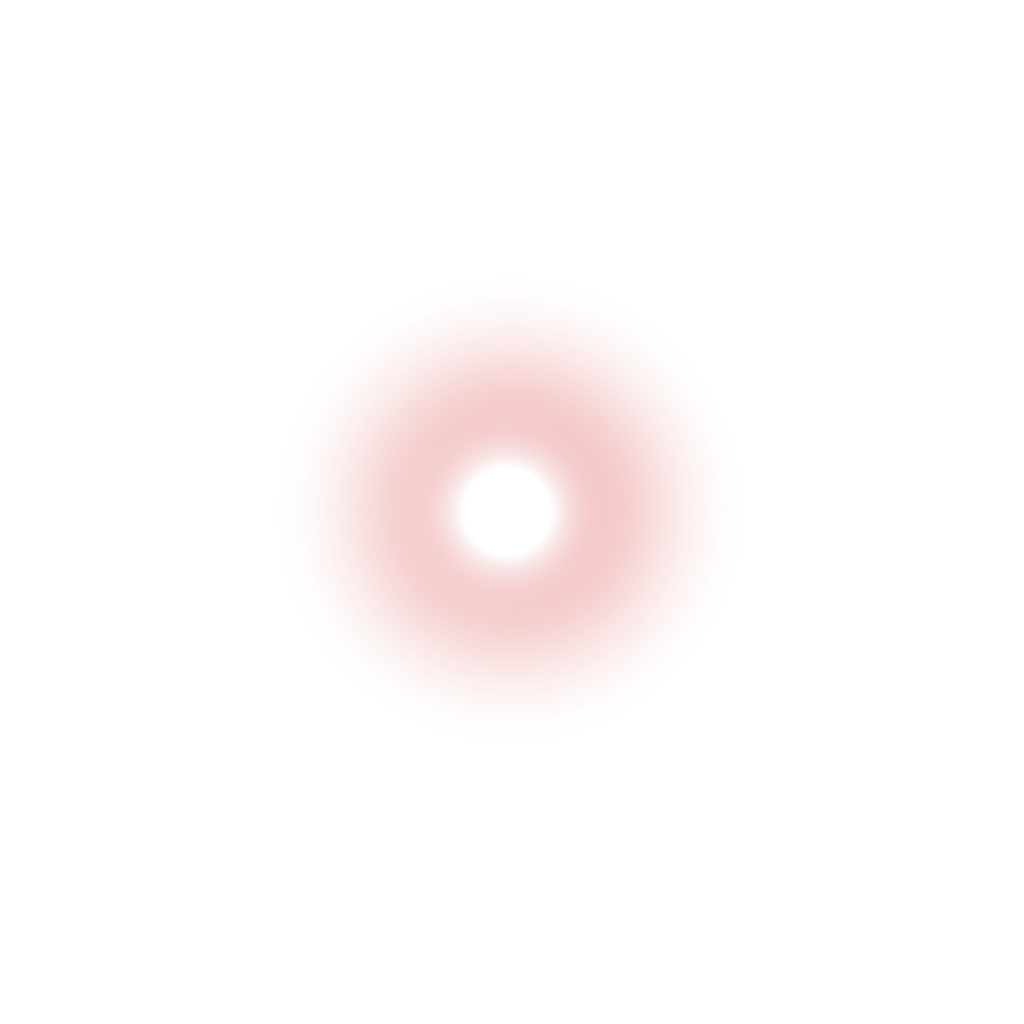
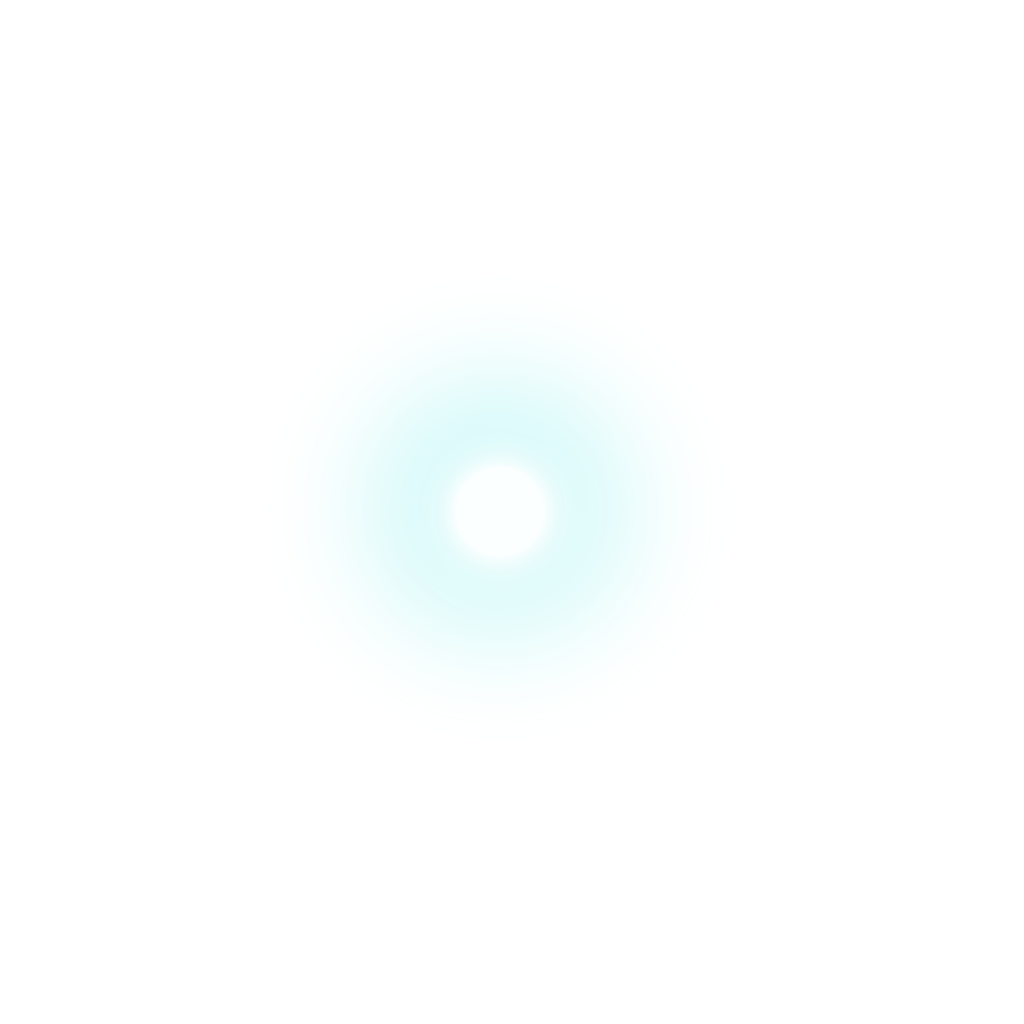
ビルボード成功。 Model.PSにアルファ0.5以下でクランプする処理を追加

Changed region(s): [[0.3438, 0.3438, 0.6562, 0.6562]]

diff --git a/RailSTG/Particle/ParticleManager.cpp b/RailSTG/Particle/ParticleManager.cpp
@@ -1,18 +1,41 @@
 #include "ParticleManager.h"
 #include "../Time/TimeManager.h"
+#include "../../Original/Base/DirectXCommon.h"
 
 #include <imgui.h>
+#include <algorithm>
 
 using namespace RyoEngine;
+
+namespace {
+    // D3D12の定数バッファ(CBV)は256バイトアラインメントが必須
+    constexpr uint32_t Align256(uint32_t size) {
+        return (size + 255) & ~255u;
+    }
+}
 
 void ParticleManager::Initialize() {
     if (!model_) {
         model_ = Model::Create("resources/RailSTG/Particle/particle.obj");
         model_->SetTex("resources/RailSTG/Particle/particle.png");
+        model_->SetEnableLighting(false);
+    }
+
+    if (!instanceWVPResource_) {
+        alignedWVPStride_ = Align256(static_cast<uint32_t>(sizeof(TransformationMatrix)));
+
+        auto device = DirectXCommon::GetInstance()->GetDevice();
+        instanceWVPResource_ = DirectXCommon::CreateBufferResource(device, alignedWVPStride_ * kMaxParticles);
+        instanceWVPResource_->Map(0, nullptr, reinterpret_cast<void**>(&instanceWVPMapped_));
     }
 }
 
 void ParticleManager::Finalize() {
+    if (instanceWVPResource_) {
+        instanceWVPResource_->Unmap(0, nullptr);
+        instanceWVPMapped_ = nullptr;
+        instanceWVPResource_.Reset();
+    }
     model_.reset();
 }
 
@@ -30,6 +53,8 @@ void ParticleManager::Emit(const Vector3& position, const Vector3& velocity,
 }
 
 void ParticleManager::Update(const RyoEngine::Camera& camera) {
+     
+
     for (auto& p : particles_) {
         p.currentLife += TimeManager::GetDeltaTime();
 
@@ -37,6 +62,11 @@ void ParticleManager::Update(const RyoEngine::Camera& camera) {
             p.velocity.y -= p.gravity * TimeManager::GetDeltaTime();
         }
         p.position += p.velocity * TimeManager::GetDeltaTime();
+
+        float lifeRate = p.currentLife / p.lifeTime;
+        lifeRate = Clamp(lifeRate, 0.0f, 1.0f);
+
+        p.color.w = (1.0f - lifeRate);
     }
 
     particles_.erase(
@@ -45,25 +75,51 @@ void ParticleManager::Update(const RyoEngine::Camera& camera) {
         particles_.end()
     );
 
-    camera_ = camera;
+    // 専用バッファのサイズ(kMaxParticles)を超える分は今回は描画しない
+    if (particles_.size() > kMaxParticles) {
+        particles_.resize(kMaxParticles);
+    }
+
+    Matrix4x4 cameraRot = camera.GetViewMatrix();
+    // 平行移動成分をクリアして回転だけにする
+    cameraRot.m[3][0] = 0.0f;
+    cameraRot.m[3][1] = 0.0f;
+    cameraRot.m[3][2] = 0.0f;
+    Matrix4x4 billboardRot = Transpose(cameraRot); // ビュー行列の回転の転置（逆回転）
+
+    for (size_t i = 0; i < particles_.size(); ++i) {
+        const Particle& p = particles_[i];
+
+        // 1. スケール行列
+        Matrix4x4 scaleMat = MakeScaleMatrix({ p.scale, p.scale, p.scale });
+        // 2. ビルボード回転（カメラを常に向く）
+        // 3. 平行移動行列
+        Matrix4x4 transMat = MakeTranslateMatrix(p.position);
+
+        // ワールド行列 ＝ スケール × カメラ向いた回転 × 位置
+        Matrix4x4 world = scaleMat * billboardRot * transMat;
+        Matrix4x4 wvp = world * camera.GetViewProjectionMatrix();
+
+        auto* dst = reinterpret_cast<TransformationMatrix*>(instanceWVPMapped_ + i * alignedWVPStride_);
+        dst->World = world;
+        dst->WVP = wvp;
+    }
 }
 
 void ParticleManager::Draw() {
-    if (!model_) return;
+    if (!model_ || !instanceWVPResource_) return;
 
     ImGui::Begin("particle");
+    ImGui::Text("count: %d", static_cast<int>(particles_.size()));
 
-    for (const auto& p : particles_) {
-        // 1. パーティクルごとの行列をモデルに適用
-        model_->SetTranslate(p.position);
-        model_->SetScale({ p.scale, p.scale, p.scale });
+    for (size_t i = 0; i < particles_.size(); ++i) {
+        // i番目のパーティクル専用のCBアドレス(他のパーティクルとは独立したメモリ)を渡して描画する。
+        // model_->Draw()(内部でwvpResource_を1個だけ使う版)は使わない。
+        D3D12_GPU_VIRTUAL_ADDRESS wvpGVA =
+            instanceWVPResource_->GetGPUVirtualAddress() + i * alignedWVPStride_;
+        model_->DrawInstance(wvpGVA);
 
-        // 2. モデルの内部行列を更新 (WVPを再計算)
-        model_->Update(camera_);
-
-        // 3. 描画命令を積む
-        model_->Draw();
-
+        const Particle& p = particles_[i];
         ImGui::Text("position: (%.2f, %.2f, %.2f)", p.position.x, p.position.y, p.position.z);
     }
     ImGui::End();

diff --git a/Original/3D/Model.cpp b/Original/3D/Model.cpp
@@ -60,6 +60,16 @@ namespace RyoEngine {
         }
     }
 
+    void Model::SetEnableLighting(bool enableLighting, int32_t meshIndex) {
+        if (meshIndex < 0) {
+            for (auto& mesh : meshes_) {
+                mesh.materialData->enableLighting = enableLighting;
+            }
+        } else {
+            meshes_[meshIndex].materialData->enableLighting = enableLighting;
+        }
+    }
+
     void Model::SetColor(const Vector4& color, int32_t meshIndex) {
         if (meshIndex < 0) {
             for (auto& mesh : meshes_) {
@@ -272,10 +282,14 @@ namespace RyoEngine {
         CreateDirectionalLight();
     }
 
-    void Model::InternalDraw(ModelCommon::DrawType drawType) {
+    void Model::InternalDraw(ModelCommon::DrawType drawType, D3D12_GPU_VIRTUAL_ADDRESS externalWVP) {
         auto commandList = DirectXCommon::GetInstance()->GetCommandList();
         auto lightManager = LightManager::GetInstance(); // ループの外で取得
         D3D12_GPU_VIRTUAL_ADDRESS lightGVA = lightManager->GetGPUVirtualAddress();
+
+        // externalWVPが指定されていれば(パーティクル等の外部インスタンスバッファ)そちらを優先し、
+        // 指定が無ければ従来通りモデル自身が持つ1個のwvpResource_を使う
+        D3D12_GPU_VIRTUAL_ADDRESS wvpGVA = (externalWVP != 0) ? externalWVP : wvpResource_->GetGPUVirtualAddress();
 
         // 最後にセットしたPSOを保持しておき、変更時のみ切り替える（最適化）
         ID3D12PipelineState* lastPSO = nullptr;
@@ -299,11 +313,17 @@ namespace RyoEngine {
 
             commandList->IASetVertexBuffers(0, 1, &mesh.vertexBufferView);
             commandList->SetGraphicsRootConstantBufferView(0, mesh.materialResource->GetGPUVirtualAddress());
-            commandList->SetGraphicsRootConstantBufferView(1, wvpResource_->GetGPUVirtualAddress());
+            commandList->SetGraphicsRootConstantBufferView(1, wvpGVA);
             commandList->SetGraphicsRootConstantBufferView(3, lightGVA);
 
             commandList->DrawInstanced(mesh.vertexCount, 1, 0, 0);
         }
+    }
+
+    void Model::DrawInstance(D3D12_GPU_VIRTUAL_ADDRESS externalWVP, ModelCommon::DrawType drawType) {
+        ModelCommon::GetInstance()->SetDrawCommands([this, externalWVP, drawType]() {
+            InternalDraw(drawType, externalWVP);
+        });
     }
 
     void Model::Update(const Camera& camera) {

diff --git a/Original/3D/Model.h b/Original/3D/Model.h
@@ -59,6 +59,17 @@ namespace RyoEngine {
         void Draw(ModelCommon::DrawType drawType = ModelCommon::DrawType::REAL);
 
         /// <summary>
+        /// パーティクルなど、同じモデルを大量に・独立した位置で描画したい場合に使う。
+        /// 呼び出し側が用意した「1インスタンス分のTransformationMatrix(World/WVP)」が
+        /// 書き込まれたバッファのGPUアドレスを渡して描画する。
+        /// このモデル自身が持つwvpResource_は使わないため、何回呼んでも互いのデータを
+        /// 上書きし合わない(＝Update()を毎回呼んでも最後の1個しか描画されない問題を回避できる)。
+        /// </summary>
+        /// <param name="externalWVP">1インスタンス分のTransformationMatrixが書き込まれたCBのGPU仮想アドレス</param>
+        /// <param name="drawType">通常描画(REAL)か反射描画(REFLECT)か</param>
+        void DrawInstance(D3D12_GPU_VIRTUAL_ADDRESS externalWVP, ModelCommon::DrawType drawType = ModelCommon::DrawType::REAL);
+
+        /// <summary>
         /// モデルの作成
         /// </summary>
         /// <param name="filePath">objまでのファイルパス</param>
@@ -201,6 +212,7 @@ namespace RyoEngine {
         /// <param name="meshIndex">対象メッシュ (負の値なら全メッシュに適用)</param>
         void SetLambert(const ShadingMode lambertMode, int32_t meshIndex = -1);
 
+        void SetEnableLighting(bool enableLighting, int32_t meshIndex = -1);
         /// <summary>
         /// テクスチャの指定 (ハンドル)
         /// </summary>
@@ -272,7 +284,7 @@ namespace RyoEngine {
     private:
         // 内部用初期化（CreateModelや将来のCreateSphereから呼ばれる）
         void InternalInitialize(const ModelLoader::ModelData& modelData);
-        void InternalDraw(ModelCommon::DrawType drawType = ModelCommon::DrawType::REAL);
+        void InternalDraw(ModelCommon::DrawType drawType = ModelCommon::DrawType::REAL, D3D12_GPU_VIRTUAL_ADDRESS externalWVP = 0);
         // 指定メッシュのuvScale/uvRotate/uvTranslateから、materialData->uvTransformを再計算して書き込む
         void UpdateUVTransform(MeshResource& mesh);
 

diff --git a/RailSTG/Particle/ParticleManager.h b/RailSTG/Particle/ParticleManager.h
@@ -1,6 +1,9 @@
 #pragma once
 #include <vector>
 #include <memory>
+#include <cstdint>
+#include <d3d12.h>
+#include <wrl.h>
 #include "../../../Original/RyoEngine.h"
 #include "Particle.h"
 
@@ -25,8 +28,21 @@ private:
     ParticleManager() = default;
     ~ParticleManager() = default;
 
+    // 同時に描画できるパーティクルの最大数(専用WVPバッファのサイズを決める)
+    // 1000個は安定して出したいとのことなので、多少の余裕を見て1536にしてある
+    static constexpr uint32_t kMaxParticles = 1536;
+
     std::vector<Particle> particles_;
     std::unique_ptr<RyoEngine::Model> model_ = nullptr;
 
-    RyoEngine::Camera camera_;
+    //RyoEngine::Camera camera_;
+
+    // パーティクル1体につき1個分のTransformationMatrix(World/WVP)を書き込む専用バッファ。
+    // Modelクラスは自身のwvpResource_を1個しか持たないため、1体のModelを使い回すと
+    // 全パーティクルが「最後に書き込まれた1つの行列」を共有してしまう(＝1個しか描画されない不具合の原因)。
+    // ここではパーティクルごとに独立したメモリ領域(=CBV)を用意することで、
+    // 各DrawInstance呼び出しが互いに独立した行列を参照できるようにする。
+    Microsoft::WRL::ComPtr<ID3D12Resource> instanceWVPResource_;
+    uint8_t* instanceWVPMapped_ = nullptr;
+    uint32_t alignedWVPStride_ = 0;
 };

diff --git a/Original/Graphics/TextureManager.cpp b/Original/Graphics/TextureManager.cpp
@@ -122,24 +122,11 @@ namespace RyoEngine {
         HRESULT hr = DirectX::LoadFromWICFile(filePathW.c_str(), DirectX::WIC_FLAGS_FORCE_SRGB, nullptr, image);
         assert(SUCCEEDED(hr));
 
-        // ミニマップの作成
         DirectX::ScratchImage mipImages{};
-        // 画像の幅か高さが1ピクセルなら、ミップマップを作らずに元の画像をそのまま使う
-        if (image.GetMetadata().width == 1 || image.GetMetadata().height == 1) {
-            // moveで中身をそのまま移動させる
-            mipImages = std::move(image);
-        } else {
-            // 2x2以上の通常画像ならミップマップを生成する
-            hr = DirectX::GenerateMipMaps(
-                image.GetImages(),
-                image.GetImageCount(),
-                image.GetMetadata(),
-                DirectX::TEX_FILTER_SRGB,
-                0,
-                mipImages
-            );
-            assert(SUCCEEDED(hr));
-        }
+        mipImages = std::move(image);
+
+        auto fmt = mipImages.GetMetadata().format;
+        Logger::Log(std::format("TexManager: format={}, HasAlpha={}\n", static_cast<int>(fmt), DirectX::HasAlpha(fmt)));
 
         // ミップマップ付きのデータを返す
         return mipImages;
